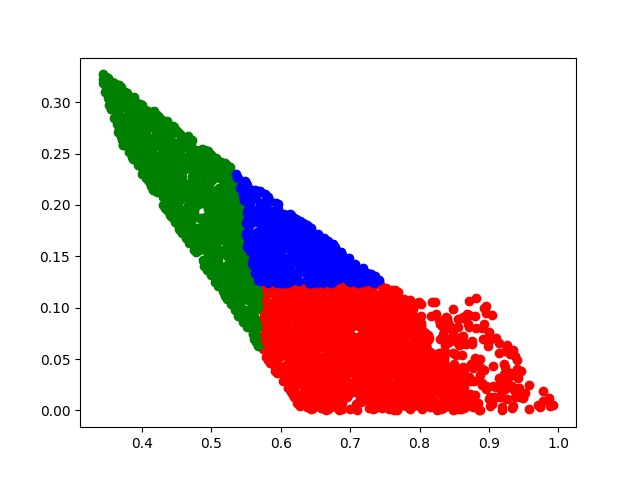
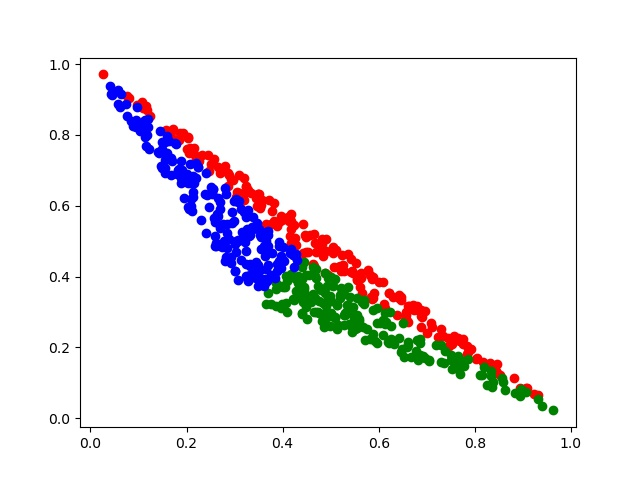
added region partition for c>3

diff --git a/region.py b/region.py
@@ -7,6 +7,7 @@ from sim_results import get_delay_of_continuous
 from operator import attrgetter
 import matplotlib.pyplot as plt
 from collections import defaultdict
+import numpy.linalg as LA
 
 
 class Region(object):
@@ -101,6 +102,7 @@ class Region(object):
         """
         if self.is_point_in_region(point):
             self.pre_sample_points.append(point)
+
             # return True
         # else:
         # return False
@@ -110,31 +112,38 @@ class Region(object):
         point -- a tuple of point
         """
         assert len(point) == self.dim, "dimension is mismatched"
-        if self.dim == 2:  # construct a line
-            p_point = Point(point)
-            line = LineString(self.vertexs)
-            assert line.is_valid, "line defined by self.vertexs should be valid"
-            return True if line.contains(p_point) else False
-        elif self.dim == 3:  # construct a polygon
-            p_point = Point(point)
-            polygon = Polygon(self.vertexs)
-            assert polygon.is_valid, "polygon defined by self.vertexs should be valid"
-            return True if polygon.contains(p_point) else False
-        else:  # based on distance
-            if self.region_id == 0:  # the root region
-                return True
-            else:
-                # return True
-                all_regions_same_depth = self.parent.children
-                surr_sum_dict = {r.region_id: 0.0 for r in all_regions_same_depth}
-                for r in all_regions_same_depth:
-                    surr_sum = 0.0
-                    for each_vertex in r.vertexs:
-                        for d in range(self.dim):
-                            surr_sum += (each_vertex[d] - point[d]) ** 2
-                    surr_sum_dict[r.region_id] = surr_sum
-                min_region_id = min(surr_sum_dict, key=surr_sum_dict.get)
-                return True if min_region_id == self.region_id else False
+        A = [list(v) for v in self.vertexs]
+        A = np.array(A).T
+        b = np.array(point)
+        coefs = LA.solve(A, b)
+        return True if (coefs >= 0).all() else False
+
+        ### unused, for c<=3 only
+        # if self.dim == 2:  # construct a line
+        #     p_point = Point(point)
+        #     line = LineString(self.vertexs)
+        #     assert line.is_valid, "line defined by self.vertexs should be valid"
+        #     return True if line.contains(p_point) else False
+        # elif self.dim == 3:  # construct a polygon
+        #     p_point = Point(point)
+        #     polygon = Polygon(self.vertexs)
+        #     assert polygon.is_valid, "polygon defined by self.vertexs should be valid"
+        #     return True if polygon.contains(p_point) else False
+        # else:  # based on distance
+        #     if self.region_id == 0:  # the root region
+        #         return True
+        #     else:
+        #         # return True
+        #         all_regions_same_depth = self.parent.children
+        #         surr_sum_dict = {r.region_id: 0.0 for r in all_regions_same_depth}
+        #         for r in all_regions_same_depth:
+        #             surr_sum = 0.0
+        #             for each_vertex in r.vertexs:
+        #                 for d in range(self.dim):
+        #                     surr_sum += (each_vertex[d] - point[d]) ** 2
+        #             surr_sum_dict[r.region_id] = surr_sum
+        #         min_region_id = min(surr_sum_dict, key=surr_sum_dict.get)
+        #         return True if min_region_id == self.region_id else False
 
     def add_child(self, child):
         child.parent = self
@@ -237,17 +246,7 @@ def build_region_tree(dim, max_depth):
             if region.is_pre_sample_enough():
                 break  # search check next region
 
-    # for region in total_region_list:
-    #     if not region.is_pre_sample_enough():
-    #         break
-    # else:
-    #         break  # break the while True loop
-
-    # for region in total_region_list:
-    #     print(region.is_pre_sample_enough())
     # root_region.print_tree()
-
-    # return total_region_list[0]  # return the root_region
     return total_region_list
 
 
@@ -257,11 +256,12 @@ if __name__ == "__main__":
     # point = Point((0.5, 0.5))
     # print(line.contains(point))
 
-    berth_num = 3
-    max_depth = 4  # root region is located at depth-0
+    berth_num = 4
+    max_depth = 3  # root region is located at depth-0
     total_region_list = build_region_tree(dim=berth_num, max_depth=max_depth)
     root_region = total_region_list[0]
     root_region.print_tree()
+
     # min_distance = min(total_region_list, key=attrgetter("distance_to_center"))
     # print(min_distance.region_id)
 
@@ -278,15 +278,14 @@ if __name__ == "__main__":
     #     is_contain = region.is_point_in_region(evenest_point)
     # print(is_contain, region.vertexs)
 
-    fig, ax = plt.subplots()
-    samples = total_region_list[23].pre_sample_points
-    x, y, z = zip(*samples)
-    ax.scatter(x, y, c="r")
-    samples = total_region_list[24].pre_sample_points
-    x, y, z = zip(*samples)
-    ax.scatter(x, y, c="g")
-    samples = total_region_list[22].pre_sample_points
-    x, y, z = zip(*samples)
-    ax.scatter(x, y, c="b")
-
-    fig.savefig("figs/pre_sample_test.jpg")
+    # fig, ax = plt.subplots()
+    # samples = total_region_list[1].pre_sample_points
+    # x, y, z = zip(*samples)
+    # ax.scatter(x, y, c="r")
+    # samples = total_region_list[2].pre_sample_points
+    # x, y, z = zip(*samples)
+    # ax.scatter(x, y, c="g")
+    # samples = total_region_list[3].pre_sample_points
+    # x, y, z = zip(*samples)
+    # ax.scatter(x, y, c="b")
+    # fig.savefig("figs/pre_sample_test.jpg")

diff --git a/test.py b/test.py
@@ -1,5 +1,39 @@
 from shapely.geometry import Point
 from shapely.geometry.polygon import Polygon
+import numpy.linalg as LA
+import numpy as np
+from scipy.optimize import linprog
+
+vertexs = [
+    (1.0, 0.0, 0.0),
+    (0.0, 1.0, 0.0),
+    (0.3333333333333333, 0.3333333333333333, 0.3333333333333333),
+]
+# vertexs = [
+#     (1.0, 0.0, 0.0),
+#     (0.3333333333333333, 0.3333333333333333, 0.3333333333333333),
+#     (0.0, 0.0, 1.0),
+# ]
+
+vertexs = [
+    (0.3333333333333333, 0.3333333333333333, 0.3333333333333333),
+    (0.0, 1.0, 0.0),
+    (0.0, 0.0, 1.0),
+]
+
+# vertexs = [(1.0, 0.0, 0.0), (0.0, 1.0, 0.0), (0.0, 0.0, 1.0)]
+
+A_list = [list(v) for v in vertexs]
+# A_list.append([1.0, 1.0, 1.0])
+A = np.array(A_list).T
+
+# b = np.array([0.1, 0.4, 0.5, 1.0])
+b = np.array([0.5, 0.4, 0.1])
+x = LA.solve(A, b)
+
+# x = linprog(c=[0.0, 0.0, 0.0], A_eq=A, b_eq=b, bounds=(0, None),)
+
+print(x, type(x), np.sum(x) == 1.0)
 
 # point = Point(1 / 3.0, 1 / 3.0, 1 / 3.0)
 # polygon = Polygon([[1, 0, 0], [0, 1, 0], [ 0, 0, 1 ]])
